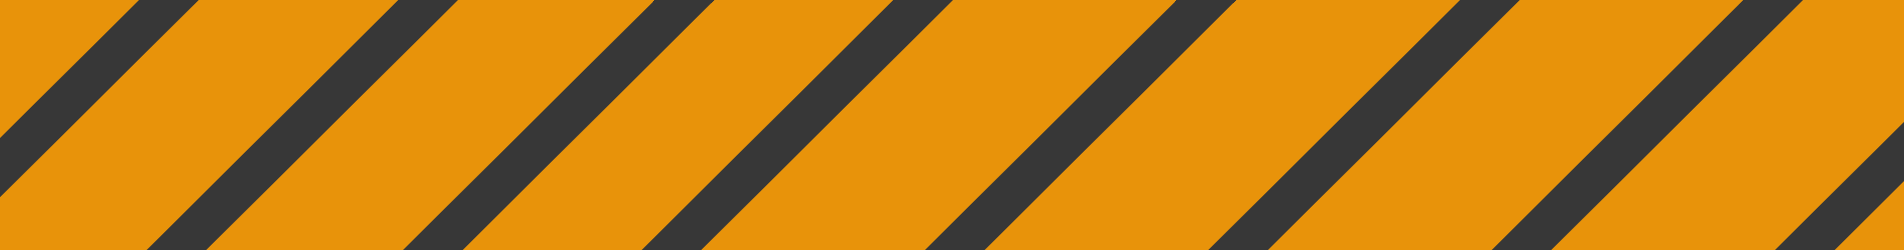
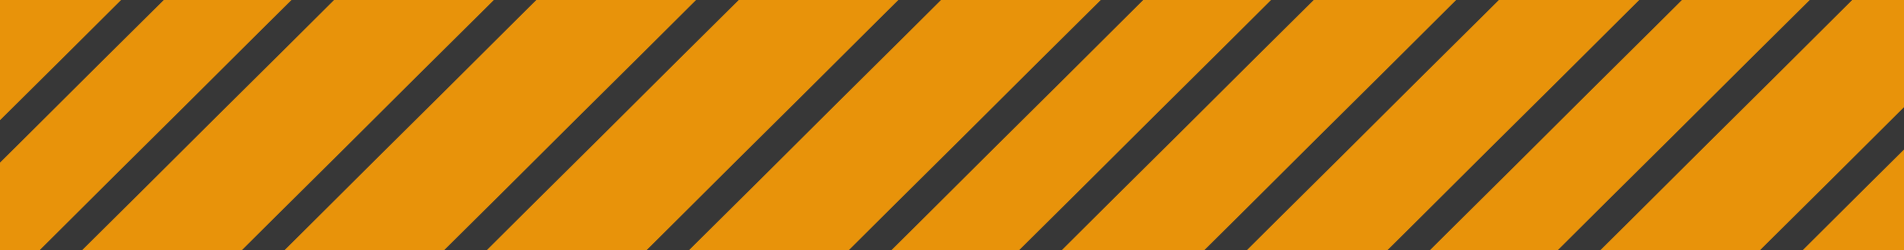
Animation Menu

diff --git a/css/menu.css b/css/menu.css
@@ -5,10 +5,23 @@
   height: 41px;
 }
 .menu {
-  background-image: url("../images/banner1.png");
-  background-repeat: repeat-x;
+  background: url("../images/banner1.png") 1904px 250px repeat-x;
+  -webkit-animation-name: MOVE-BG;
+  -webkit-animation-duration: 100s;
+  -webkit-animation-timing-function: linear;
+  -webkit-animation-iteration-count: infinite;
   height: 41px;
 }
+
+@-webkit-keyframes MOVE-BG {
+  from {
+    background-position: 0 0
+  }
+  to {
+    background-position: -600% 0
+  }
+}
+
 /* first level */
 ul {
   margin: 0;
@@ -22,17 +35,17 @@ ul:hover {
 li {
   position: relative;
   float: left;
-  background-color: rgba(255, 226, 148, 0.40);
+  background-color: rgba(255, 233, 182, 0.16);
   transition-duration: 0.2s;
 }
 li:hover {
-  background-color: rgba(255, 221, 128, 0.65);
+  background-color: rgba(255, 221, 128, 0.4);
   transition-duration: 0.2s;
 }
 li a {
   display: block;
   padding: 10px 20px;
-  color: #2a5574;
+  color: #00a3cf;
   font-weight: bold;
   text-decoration: none;
   cursor: default;

diff --git a/main/community/Community.html b/main/community/Community.html
@@ -12,7 +12,7 @@
     <meta name="distribution" content="global">
     <meta http-equiv="X-UA-Compatible" content="IE=edge">
     <meta name="viewport" content="width=device-width, initial-scale=1">
-    <link rel="icon" href="../../images/Logo_malejospe.svg">
+    <link rel="icon" href="../../images/Logo_curve.png">
     <title>Maljosco Community</title>
     <link rel="stylesheet" href="../../css/main.css" />
     <link rel="stylesheet" href="../../css/image.css" />

diff --git a/main/games/Games.html b/main/games/Games.html
@@ -12,7 +12,7 @@
     <meta name="distribution" content="global">
     <meta http-equiv="X-UA-Compatible" content="IE=edge">
     <meta name="viewport" content="width=device-width, initial-scale=1">
-    <link rel="icon" href="../../images/Logo_malejospe.svg">
+    <link rel="icon" href="../../images/Logo_curve.png">
     <title>Maljosco Games</title>
     <link rel="stylesheet" href="../../css/main.css" />
     <link rel="stylesheet" href="../../css/image.css" />

diff --git a/main/tools/Tools.html b/main/tools/Tools.html
@@ -12,7 +12,7 @@
     <meta name="distribution" content="global">
     <meta http-equiv="X-UA-Compatible" content="IE=edge">
     <meta name="viewport" content="width=device-width, initial-scale=1">
-    <link rel="icon" href="../../images/Logo_malejospe.svg">
+    <link rel="icon" href="../../images/Logo_curve.png">
     <title>Maljosco Tools</title>
     <link rel="stylesheet" href="../../css/main.css" />
     <link rel="stylesheet" href="../../css/image.css" />

diff --git a/main/community/support/Support.html b/main/community/support/Support.html
@@ -12,7 +12,7 @@
         <meta name="distribution" content="global">
         <meta http-equiv="X-UA-Compatible" content="IE=edge">
         <meta name="viewport" content="width=device-width, initial-scale=1">
-        <link rel="icon" href="../../../images/Logo_malejospe.svg">
+        <link rel="icon" href="../../../images/Logo_curve.png">
         <link rel="stylesheet" href="../../../css/main.css" />
         <title>Maljosco Support</title>
     </head>

diff --git a/main/tools/git/GitHub.html b/main/tools/git/GitHub.html
@@ -12,7 +12,7 @@
         <meta name="distribution" content="global">
         <meta http-equiv="X-UA-Compatible" content="IE=edge">
         <meta name="viewport" content="width=device-width, initial-scale=1">
-        <link rel="icon" href="../../../images/Logo_malejospe.svg">
+        <link rel="icon" href="../../../images/Logo_curve.png">
         <link rel="stylesheet" href="../../../css/main.css" />
         <title>Maljosco GitHub</title>
     </head>

diff --git a/main/games/NeverDie.html b/main/games/NeverDie.html
@@ -12,7 +12,7 @@
         <meta name="distribution" content="global">
         <meta http-equiv="X-UA-Compatible" content="IE=edge">
         <meta name="viewport" content="width=device-width, initial-scale=1">
-        <link rel="icon" href="../../images/Logo_malejospe.svg">
+        <link rel="icon" href="../../images/Logo_curve.png">
         <link rel="stylesheet" href="../../css/main.css" />
         <title>Maljosco Never Die</title>
     </head>

diff --git a/css/main.css b/css/main.css
@@ -1,5 +1,9 @@
 @import url("menu.css");
 
+* {
+  cursor: default;
+}
+
 body {
   background-image: url("../images/WebBG.png");
   background-repeat: no-repeat;
@@ -23,13 +27,14 @@ a {
   font-size: 18px;
   color:  #bd5cc4;
   text-decoration: none;
+  cursor: pointer;
 }
 a:hover {
   color: #3e3e3e;
   transition-duration: 0.3s;
 }
 .mainLink {
-  color: #941d1d;
+  color: #fa0b0b;
 }
 table {
   background-color: rgba(165, 64, 0, 0.36);

diff --git a/main/games/CDD.html b/main/games/CDD.html
@@ -12,7 +12,7 @@
     <meta name="distribution" content="global">
     <meta http-equiv="X-UA-Compatible" content="IE=edge">
     <meta name="viewport" content="width=device-width, initial-scale=1">
-    <link rel="icon" href="../../images/Logo_malejospe.svg">
+    <link rel="icon" href="../../images/Logo_curve.png">
     <link rel="stylesheet" href="../../css/main.css" />
     <title>Maljosco Crows of the Dark-Dimension</title>
 </head>

diff --git a/main/community/support/PFP.html b/main/community/support/PFP.html
@@ -12,7 +12,7 @@
     <meta name="distribution" content="global">
     <meta http-equiv="X-UA-Compatible" content="IE=edge">
     <meta name="viewport" content="width=device-width, initial-scale=1">
-    <link rel="icon" href="../../../images/Logo_malejospe.svg">
+    <link rel="icon" href="../../../images/Logo_curve.png">
     <link rel="stylesheet" href="../../../css/main.css" />
     <title>Maljosco Player for Player</title>
 </head>

diff --git a/main/index.html b/main/index.html
@@ -13,7 +13,7 @@
 		<meta name="distribution" content="global">
 		<meta http-equiv="X-UA-Compatible" content="IE=edge">
 		<meta name="viewport" content="width=device-width, initial-scale=1">
-		<link rel="icon" href="../images/Logo_malejospe.svg">
+		<link rel="icon" href="../images/Logo_curve.png">
 		<link rel="stylesheet" href="../css/main.css">
 		<link rel="stylesheet" href="../css/image.css">
 		<title>Maljosco Studios</title>

diff --git a/main/tools/UnrealEngine.html b/main/tools/UnrealEngine.html
@@ -12,7 +12,7 @@
     <meta name="distribution" content="global">
     <meta http-equiv="X-UA-Compatible" content="IE=edge">
     <meta name="viewport" content="width=device-width, initial-scale=1">
-    <link rel="icon" href="../../images/Logo_malejospe.svg">
+    <link rel="icon" href="../../images/Logo_curve.png">
     <link rel="stylesheet" href="../../css/main.css" />
     <title>Maljosco Unreal Engine</title>
   </head>
